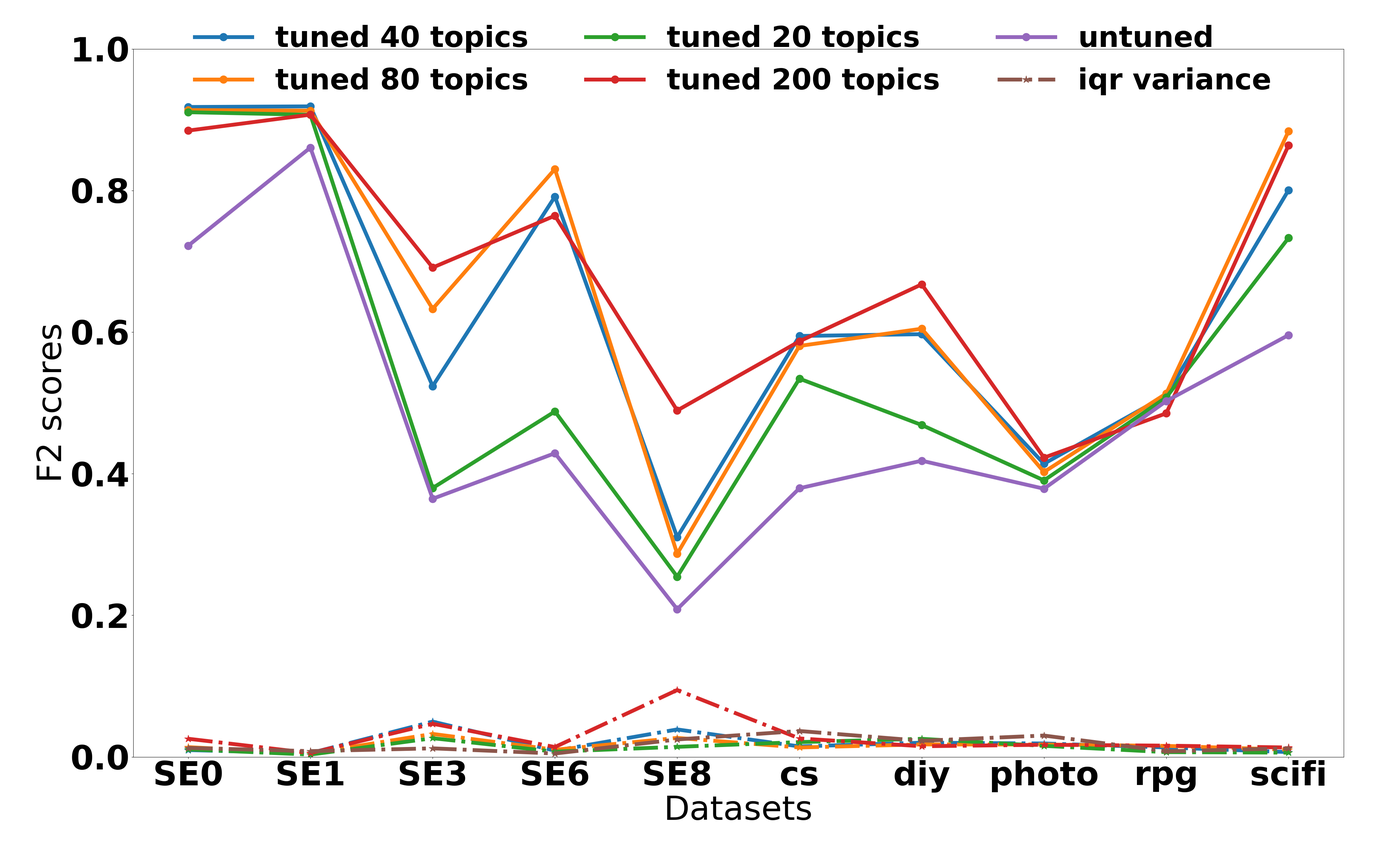
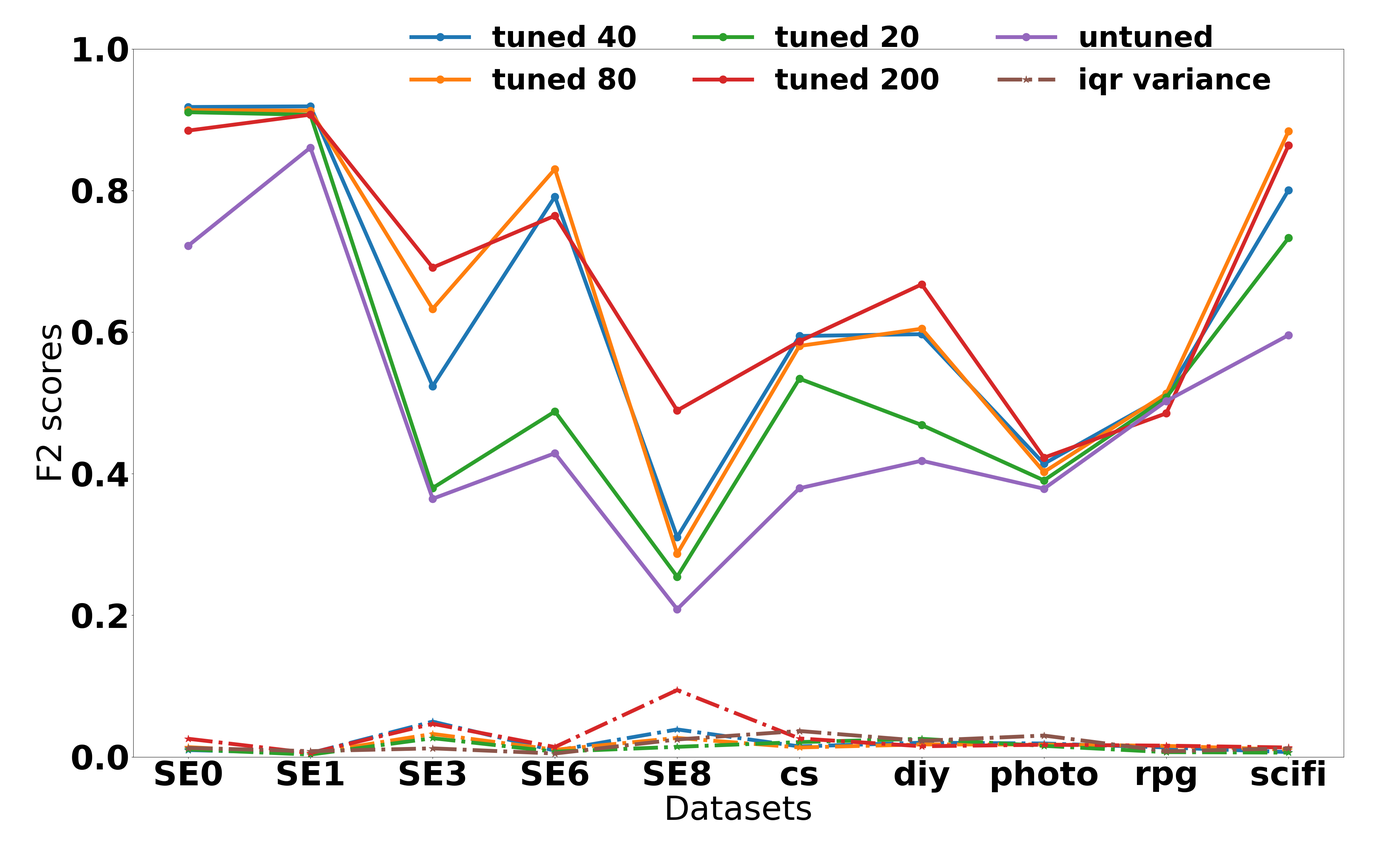
save

Changed region(s): [[0.1562, 0.0312, 0.6875, 0.1248]]

diff --git a/src/GA/ga_classification.py b/src/GA/ga_classification.py
@@ -15,7 +15,15 @@ f1_untuned={'SE6': {40: [0.6820566631689402, 0.70549450549450543, 0.674321503131
 
 f2_untuned={'SE6': {40: [0.78715056400196182, 0.80312185297079564, 0.79183266932270935, 0.78934137757667167, 0.75679475164011256, 0.79113924050632922, 0.81224696356275294, 0.80433686333837628, 0.75092421441774493, 0.79816980172852048, 0.79617834394904463, 0.79131303045431856, 0.80410821643286579, 0.79126213592232997, 0.76771653543307083, 0.78730620155038755, 0.79573624194348036, 0.78853955375253548, 0.77397910731244068, 0.79190158892875451, 0.78436254980079678, 0.79614604462474636, 0.78894972623195625, 0.78884652049571036, 0.79453441295546556], 80: [0.82544689800210302, 0.82756785524215004, 0.82928146947595893, 0.83509513742071872, 0.83810515356585114, 0.83558680367766358, 0.81465281574630954, 0.81467985424258205, 0.83119548486403283, 0.83025830258302591, 0.81967213114754101, 0.83505687693898656, 0.82846521508231552, 0.82432432432432434, 0.83859095688748697, 0.84473684210526323, 0.82937136819862645, 0.83945435466946494, 0.82762256193990513, 0.81649371927908243, 0.83735909822866339, 0.83021890016017086, 0.83377448385389108, 0.83597046413502107, 0.82359192348565358], 10: [0.43627159023228113, 0.42779945962173516, 0.42890375109043327, 0.43209876543209874, 0.42253521126760563, 0.43113425925925924, 0.43134328358208956, 0.4272753877670471, 0.42202347680268304, 0.4460093896713615, 0.42814371257485029, 0.41619318181818171, 0.42920353982300891, 0.43839541547277933, 0.42763157894736836, 0.43045343137254899, 0.44615849969751964, 0.42192881745120553, 0.42525773195876293, 0.42802697156259167, 0.43068445475638051, 0.4356116163097683, 0.42247386759581884, 0.428226779252111, 0.4396604002425713], 20: [0.49262734584450396, 0.48726114649681534, 0.47235722964763066, 0.49133910726182539, 0.48676902972884678, 0.46809151113786884, 0.48387096774193544, 0.4895901106050749, 0.48635634028892455, 0.49212598425196841, 0.47626434998448647, 0.49560216508795668, 0.49511195206559444, 0.48888162197514712, 0.49091488683455531, 0.46714888487040385, 0.48376623376623373, 0.49066213921901525, 0.49140447615958488, 0.4919329326162607, 0.48522550544323489, 0.4878880928010918, 0.4891485809682804, 0.47360248447204967, 0.48721269019100033], 200: [0.7502708559046587, 0.77131993481803374, 0.7663451232583065, 0.74103798822899958, 0.77282157676348562, 0.76092680358083209, 0.75190010857763301, 0.76657824933687013, 0.7694314032342201, 0.7713347921225383, 0.78633405639913245, 0.76780021253985131, 0.7495926127104835, 0.76436478650500794, 0.75526315789473697, 0.76675603217158173, 0.75749464668094213, 0.76230809952355727, 0.73938122705820664, 0.76923076923076916, 0.75109649122807032, 0.76448497854077235, 0.75765438505448879, 0.75921908893709322, 0.78167115902964968]}, 'SE3': {40: [0.55634134842055638, 0.47193629831035144, 0.56850961538461542, 0.5236634531113058, 0.44362969752520631, 0.5631114292531616, 0.54402950668510841, 0.52986725663716816, 0.42588113337940559, 0.51519154557463676, 0.52305350152240104, 0.53748870822041561, 0.55384978743504953, 0.50416666666666665, 0.48819850716158969, 0.48540798094103627, 0.50397323295692176, 0.54909260120986514, 0.55594569288389506, 0.55042695591968616, 0.51179443976411121, 0.4666284184356474, 0.55581835383159883, 0.5945121951219513, 0.50630252100840345], 80: [0.63965607087024501, 0.65800387061100363, 0.63948840927258188, 0.61297768658630414, 0.61843790012804101, 0.63852242744063314, 0.63281250000000011, 0.63460519342872268, 0.69599764567392586, 0.60999999999999999, 0.6158065320368985, 0.61491935483870963, 0.60876209882832399, 0.61677419354838714, 0.67340546697038728, 0.60951680156978161, 0.65075034106412011, 0.61482594540445779, 0.69791980705456735, 0.62067196717106954, 0.64740502942750144, 0.70149253731343286, 0.63347837215254665, 0.60774161735700194, 0.62371663244353182], 10: [0.34914169333721268, 0.34713238464855545, 0.3920578832239609, 0.36862003780718339, 0.36063845806354466, 0.35491997628927086, 0.3667745415318231, 0.3436475117638671, 0.36464771322620521, 0.3979714629534124, 0.36916898362681488, 0.37349014621741899, 0.34685863874345552, 0.36791126386502104, 0.35896282973621108, 0.36663041789653561, 0.37045739348370926, 0.35671372784619998, 0.36457530445506403, 0.35446389174878656, 0.35650357995226728, 0.37922243467176542, 0.36244336822371503, 0.36309884778653728, 0.36557149467838962], 20: [0.38887107119948688, 0.38158309681488489, 0.39306358381502887, 0.37909516380655223, 0.36781609195402298, 0.33063874900609597, 0.34687455299671005, 0.40061370610296626, 0.38974950560316418, 0.36746426351771283, 0.3611027869343722, 0.36239495798319327, 0.37572254335260119, 0.37973667308927428, 0.39039767216294857, 0.39933444259567391, 0.33763381828163602, 0.41223860130270829, 0.3604531410916581, 0.38374899436846344, 0.36329866270430905, 0.38522637013502781, 0.39949748743718599, 0.377373417721519, 0.38370065007134929], 200: [0.62597402597402607, 0.6647727272727274, 0.6983586249612882, 0.70164545172306736, 0.69774527726995739, 0.6822209096278794, 0.64692351926394487, 0.69669669669669676, 0.70571518787496046, 0.64556609035136647, 0.69111852076386771, 0.59722948248823837, 0.69707138499084798, 0.69924812030075179, 0.69001182033096931, 0.65283964365256131, 0.70379436964504283, 0.6995133819951338, 0.70091975895972092, 0.64516129032258074, 0.63766549581194276, 0.71337172104926416, 0.65241379310344816, 0.66532258064516137, 0.69925742574257421]}, 'SE1': {40: [0.91521845054409612, 0.91911155312448201, 0.91551584077985382, 0.92133355230743985, 0.92691029900332222, 0.92088091353996737, 0.92375124048957991, 0.91841800430249876, 0.92118226600985231, 0.9013496143958869, 0.90616966580976865, 0.92362491716368456, 0.92083607636603038, 0.91876842450049134, 0.91771108179419525, 0.9200789343857918, 0.91681647327994775, 0.92059553349875933, 0.91611120143066171, 0.90997566909975658, 0.91924540790997855, 0.91766442512711177, 0.9096774193548387, 0.90923824959481359, 0.92378752886836035], 80: [0.91074983410749843, 0.90721479280171702, 0.91103086014445167, 0.91566661186914355, 0.91027945742768424, 0.9151455352738036, 0.91381015161502965, 0.91413890270180687, 0.91721854304635764, 0.90442852491045256, 0.91728701406120761, 0.91269841269841268, 0.90670601737989842, 0.91555114857048425, 0.90687072614783459, 0.91527109932017914, 0.91786244433448771, 0.9107348347854678, 0.91260697827518111, 0.91261335531739485, 0.9090166612218229, 0.91746927930919953, 0.90983472426771395, 0.91365131578947378, 0.9134695233349942], 10: [0.85775335775335759, 0.86701635297747603, 0.85950666462387015, 0.85965182560468334, 0.85264273814932601, 0.85091847578563851, 0.86596502089459848, 0.85402786190187774, 0.85768357305071918, 0.87212035731076631, 0.85580127234171466, 0.86690424542919142, 0.86487744337573691, 0.86151245004611132, 0.86587436332767398, 0.87017653491641922, 0.86051140713520147, 0.84992458521870284, 0.85919584161443208, 0.86520666255397904, 0.86185725249424405, 0.85947109471094718, 0.84966827503015696, 0.86438843358589756, 0.87679218528438629], 20: [0.90614886731391586, 0.90689432989690733, 0.8965572202741473, 0.90135242641209234, 0.91269841269841279, 0.9046927914852444, 0.9079844206426485, 0.91484464902186413, 0.90405014464802314, 0.90207428847081517, 0.90525632706035031, 0.9066022544283413, 0.91220068415051314, 0.89661774090619029, 0.91101350252155522, 0.90631036703155177, 0.90761487254424411, 0.90762534257617289, 0.90931213497728747, 0.90483870967741942, 0.90872309435183696, 0.90769230769230769, 0.90003188775510201, 0.90776226047418007, 0.90762012619317256], 200: [0.9060791783998674, 0.90429042904290446, 0.91227484989993335, 0.91083333333333338, 0.91434797184042904, 0.91331783460644311, 0.90564170240844599, 0.90848363393453568, 0.90825534759358306, 0.90734236494397058, 0.90611902766135799, 0.9111258497761564, 0.91029241698331409, 0.90583929462651813, 0.90210021498263615, 0.91196013289036537, 0.90704272363150884, 0.90645214795156737, 0.90473040026463791, 0.91190755317367267, 0.90453938584779703, 0.90521482453263358, 0.90353374644113227, 0.9059956817804351, 0.91508174841508183]}, 'SE0': {40: [0.92009685230024219, 0.91787439613526578, 0.91311343523732913, 0.92503987240829344, 0.9232613908872902, 0.91384863123993543, 0.9065040650406504, 0.91346153846153844, 0.93328038125496438, 0.92490118577075076, 0.92240696753760898, 0.91746794871794879, 0.93220338983050854, 0.91019417475728148, 0.91273018414731777, 0.91019417475728148, 0.91894060995184601, 0.91820368885324766, 0.90429845904298456, 0.92209856915739263, 0.92723004694835687, 0.91787439613526578, 0.91389114541023564, 0.90982286634460552, 0.90544871794871795], 80: [0.92041800643086813, 0.90576766856214463, 0.9017059301380993, 0.91273018414731777, 0.91861402095084621, 0.89722675367047311, 0.9149277688603531, 0.90836012861736326, 0.89314845024469824, 0.9241323648103309, 0.88815789473684204, 0.91795288383428109, 0.91958598726114649, 0.91423948220064699, 0.92000000000000004, 0.90576766856214452, 0.91166936790923847, 0.91314935064935077, 0.92636579572446542, 0.89910496338486567, 0.92443729903536986, 0.91458501208702658, 0.88861588861588847, 0.93200000000000005, 0.91350040420371859], 10: [0.7173645320197044, 0.71651090342679136, 0.71656050955414019, 0.71995118974984751, 0.73337476693598513, 0.71518193224592219, 0.72296476306196844, 0.71249999999999991, 0.74266503667481665, 0.70037688442211066, 0.73796122576610379, 0.71776155717761547, 0.70757670632435821, 0.70769230769230773, 0.73155610663360204, 0.70006222775357818, 0.72187499999999993, 0.73800738007380073, 0.72232645403377127, 0.72794571252313389, 0.71297429620563035, 0.7345523329129886, 0.72620519159456109, 0.7233502538071066, 0.72356215213358077], 20: [0.91836734693877564, 0.90873015873015883, 0.9116022099447515, 0.90765588003157072, 0.90909090909090906, 0.91015625, 0.92094861660079053, 0.91237942122186499, 0.9072900158478604, 0.90909090909090906, 0.92041800643086813, 0.9105180533751962, 0.90652699435938766, 0.90375586854460099, 0.92074592074592077, 0.90729001584786051, 0.90093603744149764, 0.91804570527974783, 0.90620031796502387, 0.92022116903633477, 0.90944881889763785, 0.9116022099447515, 0.91876971608832803, 0.91311343523732913, 0.92167721518987344], 200: [0.89417555373256763, 0.89901477832512311, 0.90499590499590488, 0.88455149501661134, 0.86594504579517051, 0.8869636963696369, 0.89447650453421268, 0.87118084227910819, 0.85976627712854747, 0.87406793703396857, 0.86776859504132231, 0.87770382695507498, 0.8733443708609272, 0.8910891089108911, 0.91911764705882359, 0.90090090090090102, 0.8733443708609272, 0.86848635235732008, 0.87748344370860942, 0.90123456790123446, 0.90460526315789469, 0.88308457711442789, 0.90609555189456337, 0.89373970345963749, 0.87262200165425963]}, 'photo': {40: [0.41048466864490607, 0.39950449055435122, 0.41507633587786258, 0.42497548218372017, 0.40040040040040042, 0.41718362282878418, 0.41247484909456739, 0.41988756148981016, 0.42801556420233461, 0.39530220567172725, 0.40828580006004206, 0.41112828438949001, 0.42000641231163832, 0.40088757396449703, 0.4198606271777004, 0.39149560117302046, 0.41588785046728971, 0.42014004668222737, 0.41404438555813183, 0.42389853137516692, 0.41825699745547068, 0.39122703023117961, 0.44345135785493295, 0.38955598994694218, 0.40934703347696388], 80: [0.40436241610738261, 0.37692084662220943, 0.41371994342291368, 0.38145346925353502, 0.40782493368700273, 0.3883942278170095, 0.41581458759372875, 0.40531670495569411, 0.39897039897039904, 0.41104899704044723, 0.39133473095737248, 0.40238918579063193, 0.41295011562603234, 0.39776357827476039, 0.40536175710594319, 0.39912917271407838, 0.40138751238850345, 0.41791541791541792, 0.42226818338503963, 0.3972510895072075, 0.44174586413234768, 0.37949194547707554, 0.42296072507552873, 0.37849252761533464, 0.39542483660130712], 10: [0.3488664987405542, 0.42634372926343728, 0.39206195546950628, 0.36673124827013565, 0.37587186773443554, 0.38693035253654345, 0.36817429674572533, 0.37113119693234731, 0.38664079822616415, 0.4202898550724638, 0.37876767137903439, 0.35969320285638717, 0.39835554295435227, 0.35886994146093149, 0.4095334004699564, 0.37333333333333341, 0.36179268903355033, 0.42049710589036432, 0.37199124726477018, 0.39267015706806285, 0.37642782969885769, 0.39873417721518989, 0.36444551359153238, 0.39337175792507206, 0.40544977019041373], 20: [0.39657176060429988, 0.37797281993204984, 0.39017341040462428, 0.38598574821852732, 0.38427691405104136, 0.38323353293413176, 0.38815973191845854, 0.38702333523050658, 0.38341822297679684, 0.39735099337748336, 0.40986231187960298, 0.39970059880239517, 0.37005649717514127, 0.39345592212006492, 0.39053591790193837, 0.39462517680339471, 0.41106595811190999, 0.41030248577418382, 0.39904705181655747, 0.40735294117647064, 0.3753127606338616, 0.38001196888090966, 0.39868533866819095, 0.37721893491124259, 0.40197250448296473], 200: [0.43158688277421781, 0.4292294807370185, 0.44381107491856681, 0.4087089381207028, 0.41736788959946142, 0.41302447552447552, 0.41749502982107356, 0.43369313801079412, 0.42490118577075098, 0.42700729927007308, 0.43099387658973159, 0.40322580645161293, 0.41380556559450665, 0.43939393939393928, 0.40535515061361099, 0.44158972300281019, 0.41379310344827591, 0.42264150943396228, 0.42469664525339046, 0.43762376237623762, 0.41887592788971373, 0.41477073853692681, 0.42537030003797949, 0.41564291564291561, 0.40602488539620163]}, 'SE8': {40: [0.34259702922855773, 0.30227743271221535, 0.3039014373716632, 0.30829353017802863, 0.32712511938872968, 0.29435647584246849, 0.33269045323047247, 0.27851458885941638, 0.35172064777327933, 0.29999999999999999, 0.30058043117744609, 0.28472489419007319, 0.33553634977122521, 0.28301886792452829, 0.33003300330033003, 0.34701114488348528, 0.32919847328244273, 0.26007578367206341, 0.31209079004801393, 0.31040268456375836, 0.29309679907443115, 0.27704485488126651, 0.33317908375751965, 0.34204275534441803, 0.34913353720693169], 80: [0.28747433264887062, 0.24725274725274723, 0.28275020341741258, 0.29628027681660901, 0.29961750956226096, 0.280943025540275, 0.27037466203167243, 0.30091583078935891, 0.30059271803556303, 0.28461849010900281, 0.26873283640643392, 0.29578077424967381, 0.27568425228084087, 0.26970954356846466, 0.28691813804173355, 0.29721753794266437, 0.3289473684210526, 0.25441696113074203, 0.31738730450781971, 0.24532297917402049, 0.30260047281323876, 0.29036243822075786, 0.26458861906487857, 0.27721570214488062, 0.28817837610433317], 10: [0.21732745961820851, 0.14851485148514851, 0.20995550611790878, 0.2086270087397801, 0.20784543325526933, 0.24618585298196949, 0.14187773757379546, 0.20688697584004442, 0.21391899600684541, 0.20862503500420052, 0.15660889538525788, 0.20670391061452517, 0.22424992267244048, 0.14184397163120566, 0.21475118483412323, 0.19346405228758168, 0.14682057513163224, 0.19266055045871561, 0.2206320810971974, 0.23408555069046819, 0.14070932922127988, 0.23754914809960681, 0.2092696629213483, 0.19989339019189767, 0.22392938868911408], 20: [0.27093596059113301, 0.25026251312565628, 0.26094890510948909, 0.25908600215905003, 0.24328002722014291, 0.25535714285714289, 0.26286353467561518, 0.25217391304347825, 0.24831500532103584, 0.25877040639110799, 0.26248164464023499, 0.25453277545327752, 0.27070707070707067, 0.23207426376440465, 0.2630590003757986, 0.27353689567430028, 0.25305410122164052, 0.24652547981469225, 0.24569123579024571, 0.25296580600139568, 0.26256139025311676, 0.24886084822993343, 0.26376146788990829, 0.24531516183986371, 0.24143556280587278], 200: [0.46781685467816847, 0.59872029250457026, 0.5032822757111598, 0.4183976261127596, 0.45816733067729082, 0.54971705739692811, 0.53543307086614167, 0.3065630397236615, 0.53240740740740744, 0.48850574712643674, 0.56675062972292189, 0.55049668874172186, 0.34517258629314657, 0.50435413642960814, 0.47716428084526241, 0.48928571428571427, 0.39066739012479651, 0.61157796451914093, 0.56627516778523501, 0.45603674540682415, 0.41197391819798462, 0.46252532072923702, 0.55464926590538333, 0.59694793536804314, 0.41107871720116612]}, 'scifi': {40: [0.79822954822954839, 0.80316397931244299, 0.79893683552220129, 0.81155015197568392, 0.7950744907266647, 0.80035971223021585, 0.79062499999999991, 0.7927927927927928, 0.80049643189574926, 0.80444038929440387, 0.80518697225572977, 0.79999999999999993, 0.80472103004291851, 0.80042527339003644, 0.80145431552323765, 0.80149114631873253, 0.79667063020214024, 0.80513595166163132, 0.80772741101308176, 0.81038798498122655, 0.79508439443292855, 0.8076805851874429, 0.7978723404255319, 0.79926784624771208, 0.78658727671576312], 80: [0.87977034785545427, 0.88555858310626712, 0.88355464759959135, 0.88843675822312651, 0.87013843111404088, 0.893587994542974, 0.89929269114179855, 0.87698546806353495, 0.87908386662175819, 0.89316093909493011, 0.89073634204275542, 0.87155963302752293, 0.88769334229993258, 0.89351081530782017, 0.87782340862423003, 0.88404327248140624, 0.88125212657366447, 0.87421797826802761, 0.88926174496644295, 0.87722298221614226, 0.88364249578414844, 0.88145380434782605, 0.88474576271186445, 0.87815405046480743, 0.88444595052524566], 10: [0.60179711515724765, 0.60657322377960365, 0.59934318555008215, 0.58361774744027306, 0.59846903270702856, 0.58769723302080945, 0.58344795965153595, 0.59603412497117825, 0.60019129603060728, 0.59381588193956436, 0.58722919042189292, 0.58676937018577258, 0.59225776541492814, 0.59918347742555245, 0.59576448685129157, 0.59582453671123625, 0.58627810922441492, 0.60451306413301664, 0.59105805243445686, 0.58730517280325278, 0.59006928406466508, 0.60398655139289137, 0.58079677708146826, 0.59689383402874363, 0.60271041369472178], 20: [0.71966527196652719, 0.73304473304473294, 0.72549559471365632, 0.73316638842515303, 0.74095347501435971, 0.73951751866743254, 0.73412698412698407, 0.73281810654154012, 0.72870575221238942, 0.73270975056689358, 0.73554421768707479, 0.73195283290192703, 0.73641227823148403, 0.7448921679909194, 0.7275711159737418, 0.73123081216857377, 0.73294829482948298, 0.7421420256111757, 0.71971754481260186, 0.73601854534917432, 0.73576178086152066, 0.72969187675070013, 0.73459048691246831, 0.72381217004723541, 0.73112545607634016], 200: [0.86048158640226635, 0.86842105263157898, 0.85049715909090906, 0.87063799788508978, 0.87147887323943662, 0.86280056577086284, 0.87923728813559332, 0.85729499467518644, 0.85593518844663607, 0.87451805117420267, 0.84942775393419168, 0.85926449787835923, 0.86127779738792798, 0.88461538461538469, 0.88049209138840079, 0.86188625927234208, 0.85862192074259192, 0.87079646017699119, 0.86365241963970329, 0.8812193412754028, 0.87917827298050144, 0.85989492119089328, 0.87270803949224252, 0.85937499999999989, 0.86770981507823619]}, 'rpg': {40: [0.49834801762114539, 0.51201201201201207, 0.52791262135922334, 0.51866000587716721, 0.4916034669555796, 0.50258472142446864, 0.5260029717682021, 0.51026145628338493, 0.50253504324485532, 0.521015761821366, 0.50227014755959132, 0.50961814527706006, 0.53278688524590156, 0.5086956521739131, 0.51072066706372832, 0.52177601809954754, 0.52312138728323698, 0.51141417136080636, 0.50840216462546273, 0.50905683947532798, 0.52198623990427762, 0.50161812297734631, 0.51049755536381947, 0.53213443396226423, 0.52014431749849677], 80: [0.50908566483991924, 0.52108433734939763, 0.51783166904422251, 0.51852876106194679, 0.4890078917700113, 0.51985981308411211, 0.51590594744121709, 0.52002304811293565, 0.48846482483622911, 0.50201425472575156, 0.51781275890637957, 0.49401656949984657, 0.51514293801302014, 0.53030303030303028, 0.50942285041224966, 0.52788547569340893, 0.51142857142857145, 0.50269299820466795, 0.51622831561275884, 0.51903114186851207, 0.50295026692891254, 0.50879765395894438, 0.50834824090638042, 0.51317401960784315, 0.49573560767590624], 10: [0.50655379574003268, 0.5144827586206896, 0.50094263398868843, 0.50258082042923125, 0.50573792367227111, 0.4945201817695804, 0.5018587360594795, 0.50000000000000011, 0.50329127811300056, 0.51116009920088179, 0.49854535837080133, 0.50360673256745925, 0.49999999999999994, 0.50150314293522824, 0.49931787175989095, 0.50274223034734911, 0.49431667988369032, 0.49249658935879947, 0.51812004530011324, 0.50734878462408139, 0.51017563423473644, 0.48579771701619323, 0.51256707144874336, 0.51131715298609215, 0.48777413662717423], 20: [0.4993359893758299, 0.51227168949771695, 0.50505050505050497, 0.50778158797151141, 0.51104190260475646, 0.5, 0.50962627406568528, 0.4960835509138381, 0.50997782705099781, 0.51638667033874963, 0.50417827298050144, 0.50444328280188178, 0.50712002324905547, 0.51313628899835806, 0.50631211388665065, 0.51357733175914999, 0.5135579293344289, 0.4850746268656716, 0.49377916018662515, 0.50947541884097769, 0.50055463117027177, 0.50491266375545851, 0.50922213311948672, 0.50847457627118642, 0.51095929405066898], 200: [0.4796875000000001, 0.49549549549549549, 0.47530687981729941, 0.4895767530006318, 0.48704200178731011, 0.47364300626304806, 0.46791443850267384, 0.48601096048456877, 0.49297878697340902, 0.4998433093074271, 0.49455535390199634, 0.4646936656282451, 0.47178002894356008, 0.48524404086265605, 0.48261390887290168, 0.47149419075925436, 0.49490770210057289, 0.47741566609491132, 0.50862068965517238, 0.48173803526448361, 0.48478817173727601, 0.49062049062049057, 0.48883524441762222, 0.47703703703703698, 0.49853801169590634]}, 'cs': {40: [0.6048600105652403, 0.59167089893346869, 0.57851239669421495, 0.55882352941176483, 0.59620596205962051, 0.5997001499250374, 0.60124934929724105, 0.60534591194968546, 0.59677419354838701, 0.58397932816537479, 0.60087003806416539, 0.58476394849785407, 0.58823529411764708, 0.57410217501264538, 0.58547430830039537, 0.61722249875559987, 0.5707522356654392, 0.5959226346053319, 0.60031595576619279, 0.59322033898305082, 0.59741657696447792, 0.5919080919080919, 0.60955961331901187, 0.59449636552440288, 0.59340074507716878], 80: [0.5874006810442679, 0.57404326123128113, 0.60645497136907855, 0.579823192927717, 0.56082589285714279, 0.58043117744610284, 0.55905511811023612, 0.57809330628803235, 0.5879180151024811, 0.60869565217391308, 0.54216867469879515, 0.57993730407523514, 0.59210526315789469, 0.56471764117941015, 0.57237204182718759, 0.58411214953271029, 0.58740865654862284, 0.58600108518719474, 0.57744198596869933, 0.58654848800834203, 0.56517556517556522, 0.57832678270634474, 0.58853633572159669, 0.59110629067245113, 0.58282208588957063], 10: [0.39953452288595809, 0.40383170548459801, 0.33572810168554851, 0.36633018560729402, 0.37365951742627346, 0.37742631200575127, 0.36172878170999062, 0.4042145593869732, 0.40697674418604646, 0.39533132530120485, 0.37670096249585128, 0.40432801822323461, 0.39785768936495802, 0.36366549182954183, 0.40616773223016178, 0.37945640663607488, 0.40840140023337235, 0.40294323756131739, 0.34847051403342799, 0.35117627003068536, 0.33438125178622463, 0.39638932496075352, 0.37876106194690268, 0.37946428571428575, 0.40052651372696507], 20: [0.49141630901287559, 0.53063943161634097, 0.51716141001855276, 0.5334821428571429, 0.54541305340027391, 0.51331719128329301, 0.46746293245469528, 0.54926921263554929, 0.54501216545012166, 0.52977232924693518, 0.52409920449227887, 0.53438661710037172, 0.54219501530389158, 0.55035128805620614, 0.52029864675688287, 0.53420805998125587, 0.51006711409395977, 0.54342431761786603, 0.5298013245033113, 0.5358785648574057, 0.53729146221786073, 0.5380868024800709, 0.50993377483443714, 0.54124940391034815, 0.53983969825553979], 200: [0.57692307692307687, 0.57073466909532478, 0.59776207302709061, 0.57256582976117576, 0.61941964285714279, 0.57187499999999991, 0.56325301204819278, 0.62068965517241381, 0.59764309764309775, 0.56103575832305796, 0.5869957856712823, 0.60115606936416188, 0.57926829268292679, 0.56950398040416406, 0.59627690517742882, 0.5990510083036773, 0.54657179818887436, 0.59865607819181432, 0.59408926417370322, 0.58399999999999996, 0.6013945380592679, 0.58645707376058043, 0.59362079149438862, 0.60130331753554511, 0.58194774346793354]}, 'diy': {40: [0.59590316573556801, 0.58415032679738566, 0.58811390837804378, 0.58169375534645007, 0.59739655973965589, 0.61573033707865166, 0.56070640176600439, 0.59734513274336287, 0.58810474922325784, 0.57266009852216748, 0.61853448275862066, 0.59701492537313439, 0.57813154587348126, 0.60329474621549428, 0.61862835959221496, 0.59973924380704036, 0.61456400742115025, 0.59020044543429839, 0.59104737070838764, 0.61155913978494625, 0.59755067567567577, 0.61128526645768022, 0.60820367751060822, 0.59393428812131432, 0.59681697612732088], 80: [0.58771929824561397, 0.61694290976058941, 0.60807709958696643, 0.61851015801354403, 0.58560477001703581, 0.62294311236483302, 0.61281337047353757, 0.60679611650485432, 0.59399180700955856, 0.61101163831692029, 0.58886054421768697, 0.59367945823927759, 0.61560833737275811, 0.61300889096864764, 0.58644656820156382, 0.60639229422066543, 0.60352622061482819, 0.60835629017447201, 0.60336976320582869, 0.58175407668576462, 0.60474669100867184, 0.60043668122270744, 0.59909909909909909, 0.58365758754863806, 0.61132254995242619], 10: [0.39343334276818565, 0.41832669322709165, 0.42793509385936995, 0.40966386554621853, 0.43236161152964298, 0.43449637919684003, 0.42034005037783378, 0.41439806412583174, 0.42513285401688033, 0.40843806104129265, 0.43912175648702595, 0.41941875825627478, 0.40448481407891002, 0.40100621485646643, 0.43412162162162166, 0.40673420738974964, 0.42001931123270037, 0.39702942016566695, 0.43153244988107375, 0.40593169562612341, 0.43221690590111644, 0.41534559289790729, 0.41692026780279978, 0.40747278611356286, 0.43026231605886112], 20: [0.49303519061583578, 0.4580929759077027, 0.46975329503210539, 0.45724258289703307, 0.45207341944255602, 0.47033041132838832, 0.49203756635361368, 0.44533169533169542, 0.47962962962962963, 0.46875, 0.42322542322542328, 0.47761720126894602, 0.47922740524781338, 0.44335805799055961, 0.47094911584265609, 0.47484053862508863, 0.46233488039985721, 0.4425797959855215, 0.43928459366175088, 0.48480463096960918, 0.45306388526727509, 0.47619047619047622, 0.50170068027210879, 0.44963457260883377, 0.46346782988004359], 200: [0.63978494623655913, 0.65699208443271773, 0.67208672086720866, 0.68458980044345896, 0.66386969397828233, 0.64374353671147877, 0.66844919786096246, 0.67052980132450324, 0.65823438306659787, 0.66740823136818694, 0.67001675041876041, 0.66827697262479868, 0.638353309015112, 0.63953488372093026, 0.6992230854605993, 0.69854916711445447, 0.65310492505353324, 0.67733333333333334, 0.63903743315508021, 0.69429198682766191, 0.6646273637374861, 0.6767515923566878, 0.66893424036281179, 0.65712771595124531, 0.66648964418481149]}}
 
+f1_tuned_alpha_beta_k={'SE6': {7: 0.82}, 'SE3': {7: 0.56}, 'SE1': {7: 0.69}, 'SE0': {7: 0.71}, 'photo': {7: 0.81}, 'SE8': {7: 0.69}, 'scifi': {7: 0.81}, 'rpg': {7: 0.71}, 'cs': {7: 0.70}, 'diy': {7: 0.80}}
+f1_tuned_alpha_beta_10={'SE6': {7: 0.59}, 'SE3': {7: 0.42}, 'SE1': {7: 0.62}, 'SE0': {7: 0.44}, 'photo': {7: 0.41},'SE8': {7: 0.49}, 'scifi': {7: 0.56}, 'rpg': {7: 0.41}, 'cs': {7: 0.49}, 'diy': {7: 0.46}}
+
+tuned_alpha_beta_k={'SE6': {7: 0.89}, 'SE3': {7: 0.56}, 'SE1': {7: 0.67}, 'SE0': {7: 0.78}, 'photo': {7: 0.89}, 'SE8': {7: 0.67}, 'scifi': {7: 0.89}, 'rpg': {7: 0.78}, 'cs': {7: 0.67}, 'diy': {7: 0.89}}
+tuned_alpha_beta_10={'SE6': {7: 0.56}, 'SE3': {7: 0.56}, 'SE1': {7: 0.67}, 'SE0': {7: 0.33}, 'photo': {7: 0.44},'SE8': {7: 0.44}, 'scifi': {7: 0.56}, 'rpg': {7: 0.44}, 'cs': {7: 0.44}, 'diy': {7: 0.44}}
+
+
 files = ['SE0', 'SE1', 'SE3', 'SE6', 'SE8', 'cs', 'diy', 'photo', 'rpg', 'scifi']
+topic=[74, 67, 87, 82,63,52,44,38,39,45]
 
 de_iqr={40: [0.0096767833902912104, 0.0053650727601135539, 0.049876554478127777, 0.0088398430743588108, 0.038822607915051155, 0.014841647465797414, 0.020089769132564439, 0.018999987525313122, 0.013373853474084818, 0.0068486896173866052], 80: [0.013818318699001964, 0.0049916418924949024, 0.032485674588791813, 0.010139905675560557, 0.026842875910991937, 0.013365395317341711, 0.017643091713148595, 0.017525279024725227, 0.015578494133034249, 0.010282707758319076], 20: [0.010711466907204925, 0.0032916291574041079, 0.026450842898855131, 0.0074681395198899492, 0.014246384932080913, 0.020950757153465283, 0.02554378182639, 0.015628828839760633, 0.0067810210701675366, 0.0060699041108205343], 200: [0.02567040746419591, 0.0054841473677104124, 0.046843632639126054, 0.013967611336032193, 0.094459943334897711, 0.026090248430638563, 0.015094636434490938, 0.017188310995224942, 0.015941749936372041, 0.013333039492242627]}
 de_med={40: [0.91787439613526578, 0.91876842450049134, 0.5236634531113058, 0.79126213592232997, 0.31040268456375836, 0.59449636552440288, 0.59701492537313439, 0.41404438555813183, 0.51072066706372832, 0.80042527339003644], 80: [0.91350040420371859, 0.91269841269841268, 0.63281250000000011, 0.83021890016017086, 0.28691813804173355, 0.58043117744610284, 0.60474669100867184, 0.40238918579063193, 0.51317401960784315, 0.88364249578414844], 20: [0.9105180533751962, 0.90689432989690733, 0.37973667308927428, 0.4878880928010918, 0.25453277545327752, 0.53420805998125587, 0.46875, 0.39053591790193837, 0.50778158797151141, 0.73294829482948298], 200: [0.88455149501661134, 0.90704272363150884, 0.69111852076386771, 0.76436478650500794, 0.48928571428571427, 0.5869957856712823, 0.66740823136818694, 0.42264150943396228, 0.48524404086265605, 0.86365241963970329]}
@@ -25,22 +33,28 @@ untuned_med = []
 untuned_iqr=[]
 tuned_med = {}
 tuned_iqr = {}
-for x in f2_untuned['SE6'].keys():
+for x in f1_untuned['SE6'].keys():
     if x!=10:
         tuned_med[x]=[]
         tuned_iqr[x] = []
 
+tuned_k=[]
+tuned_10=[]
 for i in files:
-    for k, v in f2_untuned[i].iteritems():
+    tuned_k.append(f1_tuned_alpha_beta_k[i][7])
+    tuned_10.append(f1_tuned_alpha_beta_10[i][7])
+    for k, v in f1_untuned[i].iteritems():
         if k==10:
-            untuned_med.append(np.median(f2_untuned[i][k]))
-            untuned_iqr.append( np.percentile(f2_untuned[i][k],75)- np.percentile(f2_untuned[i][k],25) )
+            untuned_med.append(np.median(f1_untuned[i][k]))
+            untuned_iqr.append( np.percentile(f1_untuned[i][k],75)- np.percentile(f1_untuned[i][k],25) )
         else:
-            tuned_med[k].append(np.median(f2_untuned[i][k]))
-            tuned_iqr[k].append(np.percentile(f2_untuned[i][k], 75) - np.percentile(f2_untuned[i][k], 25))
+            tuned_med[k].append(np.median(f1_untuned[i][k]))
+            tuned_iqr[k].append(np.percentile(f1_untuned[i][k], 75) - np.percentile(f1_untuned[i][k], 25))
 
 print(tuned_iqr)
 print(tuned_med)
+print(tuned_k)
+print(tuned_10)
 
 font = {'family': 'normal',
         'weight': 'bold',
@@ -52,18 +66,26 @@ paras = {'lines.linewidth': 8, 'legend.fontsize': 60, 'axes.labelsize': 70, 'leg
 plt.rcParams.update(paras)
 
 X = range(len(files))
-plt.figure(num=0, figsize=(40, 25))
+plt.figure(figsize=(40, 25))
 
-for i in tuned_iqr.keys():
-    line, = plt.plot(X, tuned_med[i], marker='o', markersize=16, label='tuned '+str(i)+' topics')
-    plt.plot(X, tuned_iqr[i], linestyle="-.", color=line.get_color(), marker='*', markersize=16)
+# for i in tuned_iqr.keys():
+#     line, = plt.plot(X, tuned_med[i], marker='o', markersize=16, label='tuned '+str(i))
+#     plt.plot(X, tuned_iqr[i], linestyle="-.", color=line.get_color(), marker='*', markersize=16)
 
-line, = plt.plot(X, untuned_med, marker='o', markersize=16, label='untuned')
-plt.plot(X, untuned_iqr, linestyle="-.", marker='*', markersize=16, label='iqr variance')
+line, = plt.plot(X, untuned_med, marker='o', markersize=16, label='untuned_10')
+plt.plot(X, untuned_iqr, linestyle="-.",color=line.get_color(), marker='*', markersize=16, label='untuned_10 iqr')
+
+line, =plt.plot(X, tuned_k, marker='o', markersize=16, label='tuned_k')
+plt.plot(X, tuned_iqr[40], linestyle="-.",color=line.get_color(), marker='*', markersize=16, label='tuned_k iqr')
+for i,text in enumerate(topic):
+    plt.annotate(text,(X[i],tuned_k[i]))
+line, = plt.plot(X, tuned_10, marker='o', markersize=16, label='tuned 10')
+plt.plot(X, tuned_iqr[80], linestyle="-.",color=line.get_color(), marker='*', markersize=16, label='tuned 10 iqr')
+
 plt.ylim(0.0,1.0)
 #plt.axhline(0, color='black')
 plt.xticks(X, files)
-plt.ylabel("F2 scores")
+plt.ylabel("F1 scores")
 plt.xlabel("Datasets")
 plt.legend(bbox_to_anchor=(0.95, 1.05), loc=1, ncol=3, borderaxespad=0.)
-plt.savefig("F2" + ".png")
+plt.savefig("F1_temp" + ".png")
